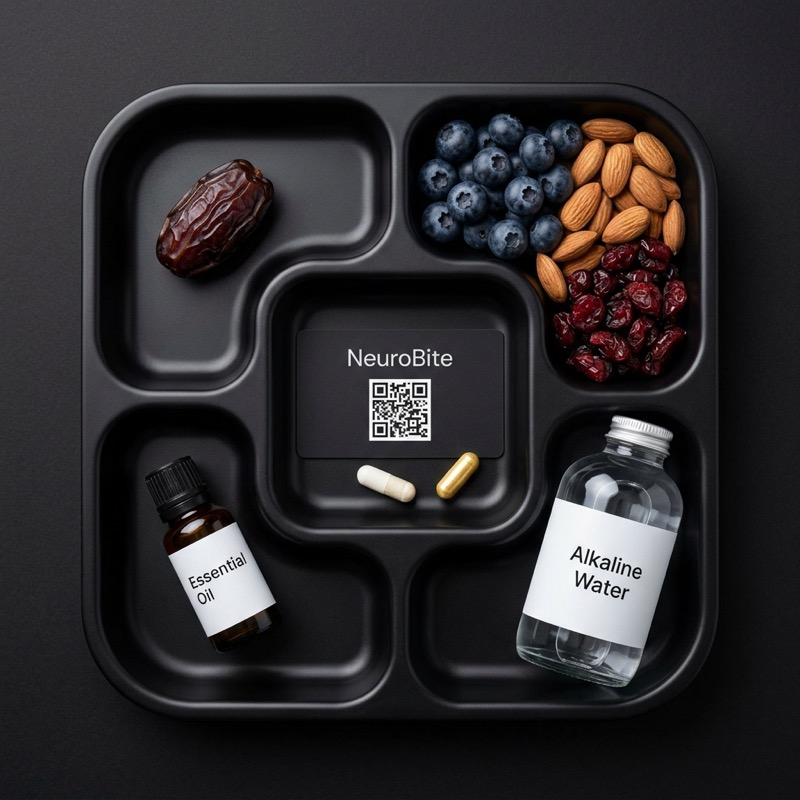
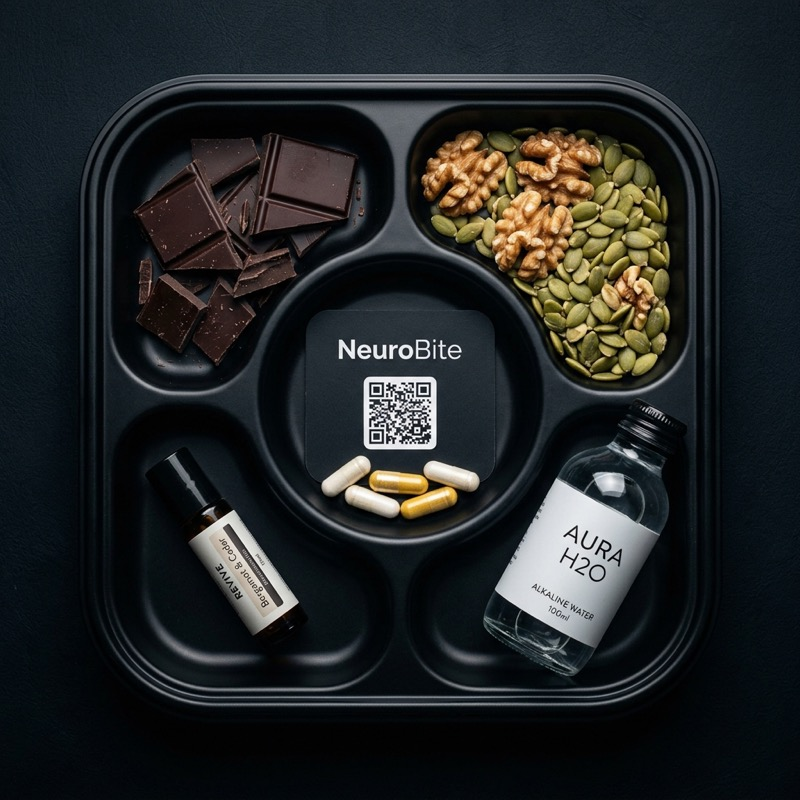
🔄 Updated tray image (chocolate+walnuts+seeds), realistic pricing (-/mo, 50-58% margins), correct floating labels

diff --git a/src/App.jsx b/src/App.jsx
@@ -132,10 +132,10 @@ function Hero({ onSample }) {
               
               {/* Floating Label Badges */}
               <div className="absolute -left-4 top-[15%] z-20 glass px-3 py-1.5 rounded-full text-[11px] font-semibold text-white/70 animate-float hidden lg:flex items-center gap-1.5" style={{animationDelay:'0.5s'}}>
-                <span className="w-1.5 h-1.5 rounded-full bg-amber-400" /> Medjool Date
+                <span className="w-1.5 h-1.5 rounded-full bg-amber-700" /> Dark Chocolate 85%
               </div>
               <div className="absolute -right-4 top-[18%] z-20 glass px-3 py-1.5 rounded-full text-[11px] font-semibold text-white/70 animate-float hidden lg:flex items-center gap-1.5" style={{animationDelay:'1s'}}>
-                <span className="w-1.5 h-1.5 rounded-full bg-indigo-400" /> Blueberries + Almonds
+                <span className="w-1.5 h-1.5 rounded-full bg-amber-500" /> Walnuts + Pumpkin Seeds
               </div>
               <div className="absolute -left-6 bottom-[30%] z-20 glass px-3 py-1.5 rounded-full text-[11px] font-semibold text-white/70 animate-float hidden lg:flex items-center gap-1.5" style={{animationDelay:'1.5s'}}>
                 <span className="w-1.5 h-1.5 rounded-full bg-purple-400" /> Essential Oil Roll-On
@@ -353,8 +353,8 @@ function Impact({ onSample }) {
   const [count, setCount] = useState(20);
   const [days, setDays] = useState(5);
   const focusHrs = Math.round(count * 1.2 * days * 4.2);
-  const value = Math.round(focusHrs * 35);
-  const cost = count * (days === 5 ? 50 : 35) * 4;
+  const value = Math.round(focusHrs * 40);
+  const cost = count * (days === 5 ? 349 : 249);
   const roi = (value / Math.max(cost, 1)).toFixed(1);
 
   return (
@@ -422,9 +422,9 @@ function Impact({ onSample }) {
 // ─── Plans ────────────────────────────────────────────
 function Plans({ onSample }) {
   const plans = [
-    { name: 'Starter', freq: '3 days/week', price: 'from $7', unit: '/ person / day', desc: 'Peak-day coverage for focused teams.', features: ['Nootropic capsule (Lion\'s Mane)', 'Oxygenated smart water', 'Bio-snack compartment', 'QR focus portal access', '8:30 AM cold delivery'], popular: false },
-    { name: 'Pro', freq: '5 days/week', price: 'from $6', unit: '/ person / day', desc: 'Full-week cognitive coverage. Our most chosen.', features: ['Everything in Starter, daily', 'Omega-3 DHA + CoQ10 + B12', 'Aromatherapy roll-on (weekly)', 'Dietary customization', 'Monthly HR analytics report', 'Dedicated account manager'], popular: true },
-    { name: 'Enterprise', freq: 'Custom', price: 'Custom', unit: 'pricing', desc: 'White-glove program for 50+ teams.', features: ['Custom branded trays', 'Doctor-guided personalization', 'Dedicated delivery fleet', 'HR dashboard integration', 'Quarterly wellness reviews', 'On-site wellness workshops'], popular: false },
+    { name: 'Starter', freq: '3 days/week', price: '$249', unit: '/ person / month', desc: 'Peak-day coverage for key work days. 13 trays per month.', features: ['Lion\'s Mane nootropic capsule', 'Neuro-snack stack (chocolate + walnuts + seeds)', 'Oxygenated alkaline water', 'QR focus ritual portal', '8:30 AM cold chain delivery'], popular: false },
+    { name: 'Pro', freq: '5 days/week', price: '$349', unit: '/ person / month', desc: 'Full-week cognitive coverage. Most chosen by high-output teams.', features: ['Everything in Starter, 5 days', 'Omega-3 DHA + CoQ10 + B12 stack', 'Rosemary aromatherapy roll-on (weekly)', 'Dietary customization per employee', 'Monthly HR performance report', 'Dedicated account manager'], popular: true },
+    { name: 'Enterprise', freq: 'Custom', price: 'Custom', unit: 'pricing', desc: 'White-glove program for 50+ person teams.', features: ['Custom branded trays with your logo', 'Doctor-guided personalization', 'Dedicated cold delivery fleet', 'HR dashboard with wellness analytics', 'Quarterly wellness workshops', 'Volume pricing from $14/tray'], popular: false },
   ];
 
   return (
